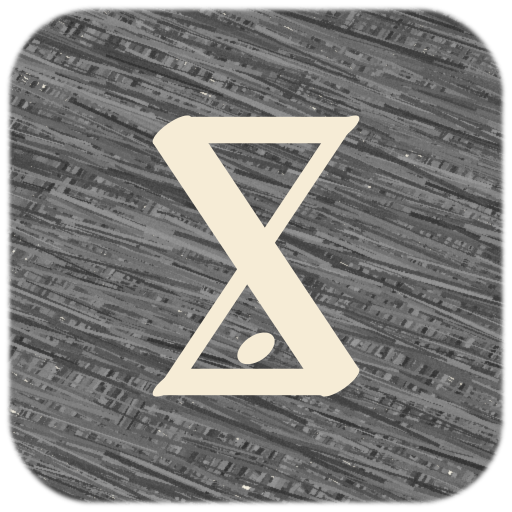
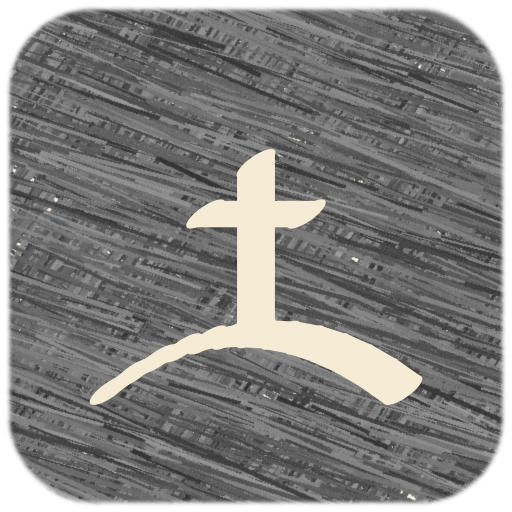
Add spell, class and alignment glyphs; rune alignment buttons; default theme for new accounts

diff --git a/client/src/pages/CreateStep4.jsx b/client/src/pages/CreateStep4.jsx
@@ -7,6 +7,7 @@ import { sendJson } from '../utils/api';
 import StepNav from './StepNav';
 import Loader from '../components/Loader';
 import CreateDescription from './CreateDescription';
+import { alignmentGlyph, hideBrokenGlyph } from '../utils/glyphs';
 
 // Step 4: Background / Personality (magic access v3)
 // Alignment from the chart, then Upbringing, Lifestyle and Outlook (each gives 1 state; the 3 must differ),
@@ -45,8 +46,8 @@ function CreateStep4() {
         img: data.img_url, name: o.name,
         sections: [
             { label: 'Description', body: o.flavor },
-            { label: 'State', body: o.any_state ? 'Any 1 state except destroy' : o.state },
-            ...(o.perk ? [{ label: 'Perk', body: o.perk }] : []),
+            { label: 'State granted', body: o.any_state ? 'Any 1 state except destroy' : o.state },
+            ...(o.perk ? [{ label: 'Perk granted', body: o.perk }] : []),
         ],
     } : null);
 
@@ -102,9 +103,9 @@ function CreateStep4() {
                                     <button type="button" key={a.code} role="radio" aria-checked={alignment === a.code}
                                         className={alignment === a.code ? 'alignment-cell selected' : 'alignment-cell'}
                                         style={{ '--cell-color': a.color.toLowerCase() }}
+                                        aria-label={a.name} title={a.name}
                                         onClick={() => changeAlignment(a.code)}>
-                                        <span>{a.name}</span>
-                                        <span>{a.color}</span>
+                                        <img className="tile-icon" src={alignmentGlyph(a.color)} alt="" onError={hideBrokenGlyph} />
                                     </button>
                                 ))}
                             </div>
@@ -122,7 +123,7 @@ function CreateStep4() {
                                             .filter((o) => !o.needs_black_gate || gate)
                                             .filter((o) => String(o.id) === ids[c.key] || o.any_state || !taken.includes(o.state))
                                             .map((o) => (
-                                                <option key={o.id} value={o.id} className="name-option-2">{o.name} ({o.any_state ? 'any state' : o.state})</option>
+                                                <option key={o.id} value={o.id} className="name-option-2">{o.name}</option>
                                             ))}
                                     </select>
                                     {picked?.any_state && (

diff --git a/client/src/sheet/actions/Actions.jsx b/client/src/sheet/actions/Actions.jsx
@@ -6,6 +6,7 @@ import { createPortal } from 'react-dom';
 import { sendJson } from '../../utils/api';
 import RuneControl from './RuneControl';
 import { weaponRuneEffects, runicStrikeDice, utilityRuneEffects } from '../../utils/runes'; /*prep-done*/
+import { stateGlyph, elementGlyph, alignmentGlyph, hideBrokenGlyph } from '../../utils/glyphs';
 
 // Dual wield: the off-hand attack is a bonus action and loses the ability modifier on DAMAGE (5e).
 // Flip this to true to also drop the modifier from to-hit (proficiency always stays).
@@ -570,9 +571,9 @@ function Actions() {
                                 <section className="spell-build-box">
                                     <article className="spell-build-box-title"><h4>Incantation</h4></article>
                                     <article className="spell-build-box-content">
-                                        <p>State: <strong>{openItem.data.state_name ? `${openItem.data.state_name}` : ''}</strong></p> 
-                                        <p>Element: <strong>{openItem.data.element_name ? `${openItem.data.element_name}` : ''}</strong></p>
-                                        <p>Alignment: <strong>{openItem.data.alignment_name ? `${openItem.data.alignment_name}` : ''}</strong></p>
+                                        <p>State: {openItem.data.state_name && <img className="tile-icon" src={stateGlyph(openItem.data.state_name)} alt="" aria-hidden="true" onError={hideBrokenGlyph} />}<strong>{openItem.data.state_name ? `${openItem.data.state_name}` : ''}</strong></p> 
+                                        <p>Element: {openItem.data.element_name && <img className="tile-icon" src={elementGlyph(openItem.data.element_name)} alt="" aria-hidden="true" onError={hideBrokenGlyph} />}<strong>{openItem.data.element_name ? `${openItem.data.element_name}` : ''}</strong></p>
+                                        <p>Alignment: {openItem.data.alignment_name && <img className="tile-icon" src={alignmentGlyph(openItem.data.alignment_name)} alt="" aria-hidden="true" onError={hideBrokenGlyph} />}<strong>{openItem.data.alignment_name ? `${openItem.data.alignment_name}` : ''}</strong></p>
                                     </article>
                                 </section>
                             </section>

diff --git a/client/src/sheet/actions/SpellsTab.jsx b/client/src/sheet/actions/SpellsTab.jsx
@@ -7,6 +7,7 @@ import { getSpellSlots, beamsAt, beamRollText, beamDamageText } from '../../util
 import { modOf, signed, proficiencyBonus, rollDice, rollToHit } from '../../utils/math';
 import { useCharacter } from '../CharacterContext';
 import { createPortal } from 'react-dom';
+import { stateGlyph, elementGlyph, alignmentGlyph, hideBrokenGlyph } from '../../utils/glyphs';
 
 
 const SPELL_TABS = [
@@ -135,9 +136,9 @@ function SpellsTab() {
                         <h4>Incantation</h4>
                      </article> 
                      <article className='spell-build-box-content'>
-                            <p>State: <strong>{openSpell.state_name ? `${openSpell.state_name}` : ''}</strong></p>
-                            <p>Element: <strong>{openSpell.element_name ? `${openSpell.element_name}` : ''}</strong></p>
-                            <p>Alignment: <strong>{openSpell.alignment_name ? `${openSpell.alignment_name}` : ''}</strong></p>
+                            <p>State: {openSpell.state_name && <img className="tile-icon" src={stateGlyph(openSpell.state_name)} alt="" aria-hidden="true" onError={hideBrokenGlyph} />}<strong>{openSpell.state_name ? `${openSpell.state_name}` : ''}</strong></p>
+                            <p>Element: {openSpell.element_name && <img className="tile-icon" src={elementGlyph(openSpell.element_name)} alt="" aria-hidden="true" onError={hideBrokenGlyph} />}<strong>{openSpell.element_name ? `${openSpell.element_name}` : ''}</strong></p>
+                            <p>Alignment: {openSpell.alignment_name && <img className="tile-icon" src={alignmentGlyph(openSpell.alignment_name)} alt="" aria-hidden="true" onError={hideBrokenGlyph} />}<strong>{openSpell.alignment_name ? `${openSpell.alignment_name}` : ''}</strong></p>
                         </article>
                     </section>
                     </section>

diff --git a/client/src/pages/edit/EditClassForm.jsx b/client/src/pages/edit/EditClassForm.jsx
@@ -6,6 +6,7 @@ import CreateDescription from '../CreateDescription';
 import LevelChoices from '../LevelChoices';
 import { choiceFeatures, keepPicks, KEPT_BOOST, isBoostRow } from '../../utils/levelChoices';
 import { sendJson } from '../../utils/api';
+import { classGlyph, hideBrokenGlyph } from '../../utils/glyphs';
 
 // Class + subclass editor, laid out like creator Step 2: pick tiles on top, then the
 // description box with the class and subclass features the character has unlocked
@@ -125,7 +126,7 @@ function EditClassForm({ character, classes, subClasses, onSaved }) {
                     </select>
                 </article>
                 <article className="name-tile-2">
-                    <label className="name-label-2" htmlFor="class_id">Select Class</label>
+                    <label className="name-label-2" htmlFor="class_id">{pickedClass && <img className="tile-icon" src={classGlyph(pickedClass.name)} alt="" aria-hidden="true" onError={hideBrokenGlyph} />}Select Class</label>
                     <select className="name-value-2" id="class_id" value={classId} onChange={changeClass} required>
                         {classes.map((c) => (
                             <option key={c.id} value={c.id} className="name-option-2">{c.name}</option>

diff --git a/client/src/pages/CreateStep2.jsx b/client/src/pages/CreateStep2.jsx
@@ -13,6 +13,7 @@ import WeaponFilter from '../components/WeaponFilter';
 import ArmorFilter from '../components/ArmorFilter';
 import { filterSortArmor, EMPTY_ARMOR_FILTER } from '../utils/armor';
 import { filterSortWeapons, EMPTY_WEAPON_FILTER } from '../utils/weapons';
+import { classGlyph, hideBrokenGlyph } from '../utils/glyphs';
 
 // Replaces views/create_char_step2.ejs (step 2: class and subclass)
 // Builds what the description box shows for a class: dropdown sections + feature tree
@@ -205,7 +206,7 @@ function CreateStep2() {
                         </article>
 
                         <article id="class-container" className="name-tile-2">
-                            <label className="name-label-2" htmlFor="class_id">Select Class</label>
+                            <label className="name-label-2" htmlFor="class_id">{picked && <img className="tile-icon" src={classGlyph(picked.name)} alt="" aria-hidden="true" onError={hideBrokenGlyph} />}Select Class</label>
                             <select className="name-value-2" id="class_id" value={classId} onChange={changeClass} required>
                                 <option value="" disabled className="name-option-2">Select your Class</option>
                                 {classes.map((c) => (

diff --git a/client/src/utils/glyphs.js b/client/src/utils/glyphs.js
@@ -1,0 +1,10 @@
+// Paths to the sketch glyphs in /public/glyphs. Names are lower-cased; a missing glyph hides itself.
+const ALIGNMENT_GLYPHS = { white: 'life', yellow: 'strengthen', green: 'freedom', blue: 'defense', grey: 'neutrality', red: 'offense', orange: 'restrict', purple: 'weaken', black: 'death' };
+const slug = (name) => String(name ?? '').trim().toLowerCase().replace(/\s+/g, '-');
+
+export const stateGlyph = (name) => `/glyphs/states/${slug(name)}.png`;
+export const elementGlyph = (name) => `/glyphs/elements/${slug(name)}.png`;
+export const classGlyph = (name) => `/glyphs/classes/${slug(name)}.png`;
+// accepts "Green Magic" or "Green"
+export const alignmentGlyph = (name) => `/glyphs/alignments/${ALIGNMENT_GLYPHS[slug(name).split('-')[0]] ?? slug(name)}.png`;
+export const hideBrokenGlyph = (e) => { e.currentTarget.hidden = true; };

diff --git a/models/userModel.js b/models/userModel.js
@@ -15,7 +15,7 @@ export async function usernameExists(username) {
 // Returns { id, username, created_at }
 export async function createUser(username, hash, name, email) {
     const result = await pool.query(
-        `INSERT INTO users (username, password_hash, name, email) VALUES ($1, $2, $3, $4) RETURNING id, username, created_at`,
+        `INSERT INTO users (username, password_hash, name, email, site_theme) VALUES ($1, $2, $3, $4, 'default') RETURNING id, username, created_at`,
         [username, hash, name, email]
     );
     return result.rows[0];

diff --git a/client/src/styles/components.css b/client/src/styles/components.css
@@ -134,6 +134,8 @@ select:focus-visible {
 
 /*  ===== Mobile (max-width: 768px), consolidated =====  */
 
+.tile-icon { width: 1.25em; height: 1.25em; vertical-align: middle; margin-right: .25em; }
+
 @media (max-width: 768px) {
     /* Mobile: the details popup slides up from the bottom, full width */
     .spell-details {

diff --git a/client/src/styles/char_create.css b/client/src/styles/char_create.css
@@ -1095,3 +1095,8 @@ footer {
         border-top: none;
     }
 }
+
+.alignment-cell img {
+    width: 60%;
+    height: auto;
+}
